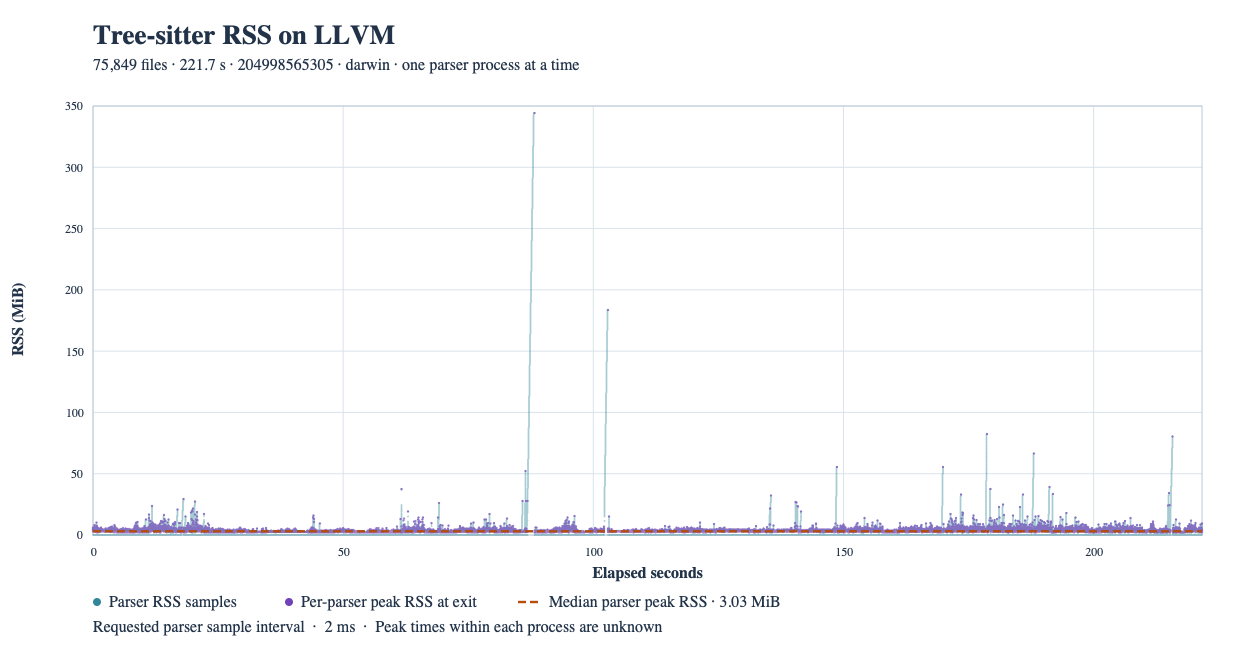
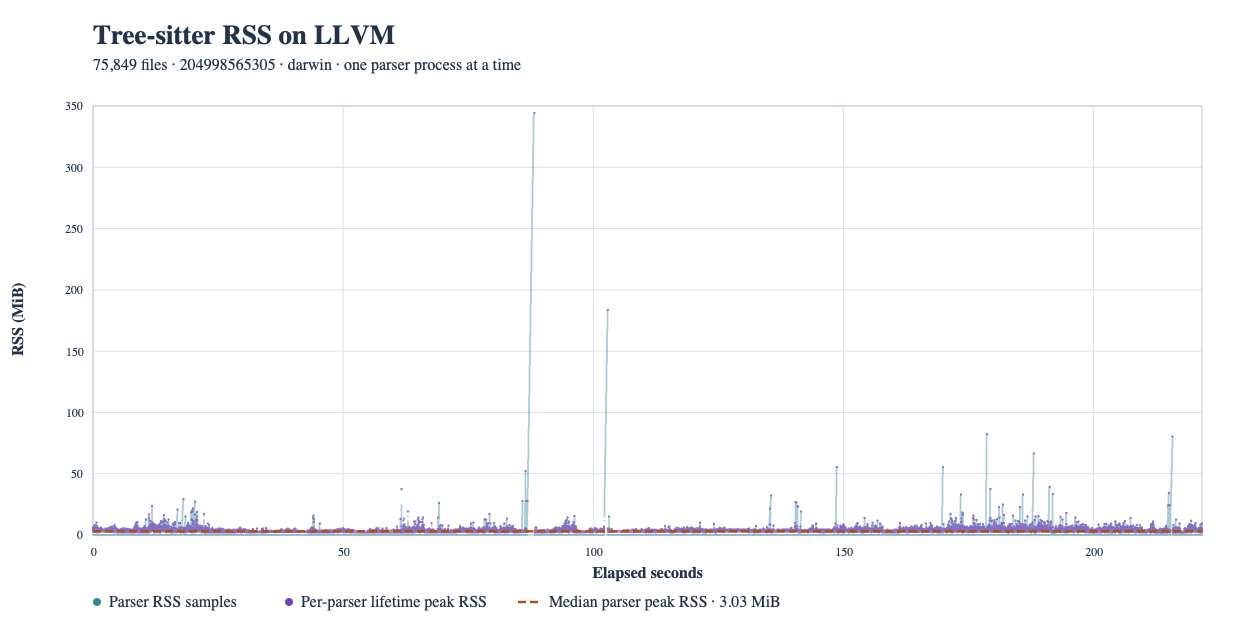
Overlay original and shortened parser RSS and simplify plot labels

diff --git a/plot_rss.py b/plot_rss.py
@@ -12,9 +12,10 @@ from statistics import median
 
 
 MIB = 1024 ** 2
-WIDTH, HEIGHT = 1240, 650
+WIDTH, HEIGHT = 1240, 628
 LEFT, RIGHT, TOP, BOTTOM = 93, 1202, 106, 535
 MEDIAN_COLOR = "#b44d0e"
+OVERLAY_MARKS = (("#7959a5", 0.65, 3.6), ("#087e82", 0.85, 2.2))
 
 
 @dataclass
@@ -62,7 +63,7 @@ def render(directory, output=None, start=0.0, end=None, *, linear=False):
     if not 0 <= start < end <= duration:
         raise ValueError(f"expected 0 <= start < end <= {duration:.9f} s")
     run = PlotRun(start, end, "", *read_points(directory, start, end))
-    subtitle = f"{summary['files']:,} files · {duration:.1f} s · {summary['head'][:12]}"
+    subtitle = f"{summary['files']:,} files · {summary['head'][:12]}"
     if "excluded_files" in summary:
         subtitle += (
             f" · {summary['excluded_files']} files excluded at "
@@ -72,19 +73,20 @@ def render(directory, output=None, start=0.0, end=None, *, linear=False):
         subtitle += f" · {summary['platform']} · one parser process at a time"
     if "replacement_files" in summary:
         subtitle += f" · {len(summary['replacement_files'])} shortened copies"
-    draw([run], summary, subtitle, output if output is not None else directory / "rss.svg",
+    draw([run], subtitle, output if output is not None else directory / "rss.svg",
          linear=linear)
 
 
-def draw(runs, summary, subtitle, output, *, linear, title=None):
+def draw(runs, subtitle, output, *, linear, title=None, overlay=False):
     start, end = runs[0].start, runs[-1].end
-    comparison = len(runs) > 1
-    width, right = (1650, 1612) if comparison else (WIDTH, RIGHT)
+    comparison = len(runs) > 1 and not overlay
+    width, right = (1650, 1612) if len(runs) > 1 else (WIDTH, RIGHT)
     rss_values = [rss for run in runs for series in (run.samples, run.peaks)
                   for _, rss in series]
     if not rss_values:
         raise ValueError("there are no RSS measurements in this time window")
     medians = [median(rss for _, rss in run.peaks) if run.peaks else None for run in runs]
+    common_median = len(set(medians)) == 1
     if linear:
         low = 0
         tick_step = tick_spacing(max(rss_values) / MIB / 8)
@@ -130,11 +132,13 @@ def draw(runs, summary, subtitle, output, *, linear, title=None):
     scale_description = "linear" if linear else "logarithmic"
     if title is None:
         title = "Tree-sitter RSS by allocator on LLVM" if comparison else "Tree-sitter RSS on LLVM"
+    description = ("Original and shortened parser peaks aligned by source file." if overlay else
+                   "Live RSS and lifetime peak RSS for sequential parser processes.")
     svg = [
         f'<svg xmlns="http://www.w3.org/2000/svg" width="{width}" height="{HEIGHT}" '
         f'viewBox="0 0 {width} {HEIGHT}" role="img" aria-labelledby="title description">',
         f'<title id="title">{escape(title)}</title>',
-        '<desc id="description">Live RSS and lifetime peak RSS for sequential parser processes. '
+        f'<desc id="description">{description} '
         f'Each horizontal line shows the median parser peak for its run. RSS uses a {scale_description} axis.</desc>',
         '<style>text{font:14px Arial,Helvetica,sans-serif;fill:#223349}'
         '.title{font-size:27px;font-weight:680}.sub{fill:#4c5c70}'
@@ -159,35 +163,43 @@ def draw(runs, summary, subtitle, output, *, linear, title=None):
         px = x(elapsed)
         svg.append(gridline(px, TOP, px, BOTTOM))
         svg.append(label(px, BOTTOM + 21, f"{elapsed:g}", "tick", "middle"))
+    time_label = "Original run elapsed seconds" if overlay else "Elapsed seconds"
     svg += [
         f'<rect x="{LEFT}" y="{TOP}" width="{right - LEFT}" height="{BOTTOM - TOP}" '
         'fill="none" stroke="#bcc9d6"/>',
         '<text class="axis" transform="translate(23 320) rotate(-90)" text-anchor="middle">'
         f'{axis_label}</text>',
-        label((LEFT + right) / 2, BOTTOM + 43, "Elapsed seconds", "axis", "middle"),
+        label((LEFT + right) / 2, BOTTOM + 43, time_label, "axis", "middle"),
     ]
-    for run, middle in zip(runs, medians, strict=True):
-        svg += [
-            markers(run.samples, "#318799", 0.43, 1.8),
-            markers(run.peaks, "#7041b8", 0.66, 2.3),
-        ]
-        if middle is not None:
+    for index, run in enumerate(runs):
+        if overlay:
+            svg.append(markers(run.peaks, *OVERLAY_MARKS[index]))
+        else:
+            svg.append(markers(run.samples, "#318799", 0.43, 1.8))
+            svg.append(markers(run.peaks, "#7041b8", 0.66, 2.3))
+    for index, (run, middle) in enumerate(zip(runs, medians, strict=True)):
+        if middle is not None and (not overlay or middle not in medians[:index]):
+            color = OVERLAY_MARKS[index][0] if overlay and not common_median else MEDIAN_COLOR
             svg.append(
                 f'<path class="median-line" d="M{x(run.start):.2f},{y(middle):.2f} '
-                f'H{x(run.end):.2f}" stroke="{MEDIAN_COLOR}" stroke-width="2.4" '
+                f'H{x(run.end):.2f}" stroke="{color}" stroke-width="2.4" '
                 'stroke-dasharray="8 4" fill="none"/>'
             )
-    for run in runs[1:]:
+    for run in runs[1:] if comparison else ():
         px = x(run.start)
         svg.append(f'<path d="M{px:.2f},{TOP}V{BOTTOM}" stroke="#8294a8" '
                    'stroke-width="1.3" stroke-dasharray="5 4"/>')
-    for px, color, name in (
-        (LEFT, "#318799", "Parser RSS samples"),
-        (LEFT + 192, "#7041b8", "Per-parser peak RSS at exit"),
-    ):
+    legend = (
+        ((LEFT, OVERLAY_MARKS[0][0], runs[0].label),
+         (LEFT + 192, OVERLAY_MARKS[1][0], runs[1].label))
+        if overlay else
+        ((LEFT, "#318799", "Parser RSS samples"),
+         (LEFT + 192, "#7041b8", "Per-parser lifetime peak RSS"))
+    )
+    for px, color, name in legend:
         svg.append(f'<circle cx="{px + 4}" cy="602" r="4" fill="{color}"/>')
         svg.append(label(px + 16, 607, name))
-    if any(value is not None for value in medians):
+    if (comparison or common_median) and any(value is not None for value in medians):
         px = LEFT + 425
         svg.append(f'<path d="M{px},602h23" stroke="{MEDIAN_COLOR}" '
                    'stroke-width="2.4" stroke-dasharray="8 4"/>')
@@ -195,12 +207,14 @@ def draw(runs, summary, subtitle, output, *, linear, title=None):
         if not comparison:
             median_label += f" · {medians[0] / MIB:.2f} MiB"
         svg.append(label(px + 31, 607, median_label))
-    svg.append(label(
-        LEFT, 632,
-        f"Requested parser sample interval  ·  {summary['parser_interval_ms']:g} ms"
-        "  ·  Peak times within each process are unknown",
-        "sub",
-    ))
+    elif overlay:
+        for index, middle in enumerate(medians):
+            if middle is not None:
+                px = LEFT + 425 + 192 * index
+                color = OVERLAY_MARKS[index][0]
+                svg.append(f'<path d="M{px},602h23" stroke="{color}" '
+                           'stroke-width="2.4" stroke-dasharray="8 4"/>')
+                svg.append(label(px + 31, 607, f"{runs[index].label} median · {middle / MIB:.2f} MiB"))
     svg.append("</svg>")
     output.write_text("\n".join(svg) + "\n", encoding="utf-8")
     print(f"Wrote {output}", flush=True)

diff --git a/README.md b/README.md
@@ -105,6 +105,8 @@ from 1.37 s to 0.27 s including preprocessing. The two unchanged controls,
 
 ![Peak RSS before and after shortening generated LLVM tables](results/preprocessing/rss-comparison.png)
 
+[Full-run RSS overlay](results/shortened-full/rss-overlay.png) pairs each file's original and shortened parser RSS on the original run's elapsed-time axis.
+
 The chart shows medians from the [40 measured trials](results/preprocessing/trials.csv).
 The [per-file summary](results/preprocessing/summary.json) includes the
 table names, their entry counts, and timings before and after shortening.
